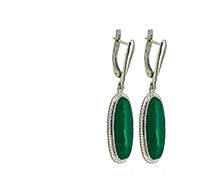
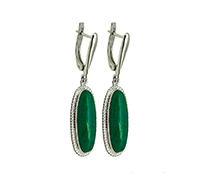
mobile menu images-center

Changed region(s): [[0.33, 0.1105, 0.84, 0.9116]]

diff --git a/sass/main.scss b/sass/main.scss
@@ -181,11 +181,19 @@ $Museo-Sans-Cyrl: "Museo Sans Cyrl";
   border: 0;
 }
 
-
 .dropdown-item:hover {
   color: #fff;
   background-color: #232323 !important;
 }
+
+.menu-top__item--right {
+  margin-left: auto;
+  order: 2;
+}
+.menu-top_btn--no-arrow{
+  padding-right: 0;
+}
+
 //menu-top-CLASSES END//
 
 
@@ -240,6 +248,7 @@ $Museo-Sans-Cyrl: "Museo Sans Cyrl";
   font-weight: 300;
   letter-spacing: 0.14px;
   font-size: 14px;
+  display: inline!important;
 }
 
 .main-category-list {
@@ -561,17 +570,39 @@ $Museo-Sans-Cyrl: "Museo Sans Cyrl";
 
 
 
-
-.menu-top__item--right {
-  margin-left: auto;
-  order: 2;
+//---------MOBILE-MENUTOP-CLASSES---------//
+.navbar-brand {
+  color: #ffffff;
+  font-family: "Museo Sans Cyrl" !important;
+  font-size: 18px;
+  font-weight: 300;
 }
-.menu-top_btn--no-arrow{
-  padding-right: 0;
+
+.bg-black {
+  background-color: #232323;
 }
 
+.navbar-dark .navbar-nav .mmenu__link {
+  color:#fff;
+}
 
+.mmenu__link {
+  font-family: "Museo Sans Cyrl";
+  color:#fff;
+  font-weight: 500;
+  font-size: 100%;
+}
 
+.mmenu__link--head{
+  font-size: 125%;
+  font-weight: 700;
+  margin-top: 10px;
+}
+
+.navbar-dark .navbar-toggler {
+  color: #fff;
+}
+//---------MOBILE-MENUTOP-CLASSES-END--------//
 
 
 

diff --git a/sass/main.css b/sass/main.css
@@ -130,6 +130,13 @@ a {
   color: #fff;
   background-color: #232323 !important; }
 
+.menu-top__item--right {
+  margin-left: auto;
+  order: 2; }
+
+.menu-top_btn--no-arrow {
+  padding-right: 0; }
+
 .main-categories {
   padding-bottom: 60px; }
   .main-categories .horizontal_stripe {
@@ -174,7 +181,8 @@ a {
   font-family: "Museo Sans Cyrl";
   font-weight: 300;
   letter-spacing: 0.14px;
-  font-size: 14px; }
+  font-size: 14px;
+  display: inline !important; }
 
 .main-category-list {
   list-style-type: none;
@@ -423,11 +431,30 @@ a {
   line-height: 24px;
   letter-spacing: 0.32px; }
 
-.menu-top__item--right {
-  margin-left: auto;
-  order: 2; }
+.navbar-brand {
+  color: #ffffff;
+  font-family: "Museo Sans Cyrl" !important;
+  font-size: 18px;
+  font-weight: 300; }
 
-.menu-top_btn--no-arrow {
-  padding-right: 0; }
+.bg-black {
+  background-color: #232323; }
+
+.navbar-dark .navbar-nav .mmenu__link {
+  color: #fff; }
+
+.mmenu__link {
+  font-family: "Museo Sans Cyrl";
+  color: #fff;
+  font-weight: 500;
+  font-size: 100%; }
+
+.mmenu__link--head {
+  font-size: 125%;
+  font-weight: 700;
+  margin-top: 10px; }
+
+.navbar-dark .navbar-toggler {
+  color: #fff; }
 
 /*# sourceMappingURL=main.css.map */

diff --git a/sass/responsive.css b/sass/responsive.css
@@ -22,9 +22,6 @@
     content: none; }
 
   .h-mail {
-    float: right; } }
-@media (max-width: 767px) and (min-width: 320px) {
-  .h-mail {
     float: none !important; }
 
   .header {
@@ -39,6 +36,19 @@
     text-align: center; }
 
   .menu-top_btn, .about-company {
-    font-size: 16px; } }
+    font-size: 16px; }
+
+  .main-categories .main-category h3 {
+    white-space: normal;
+    line-height: 1.3; }
+
+  .main-category-list li {
+    line-height: 1.5; }
+
+  .main-category-list li a {
+    white-space: normal; } }
+@media (max-width: 321px) {
+  .main-category_dscr {
+    display: none !important; } }
 
 /*# sourceMappingURL=responsive.css.map */

diff --git a/sass/responsive.scss b/sass/responsive.scss
@@ -33,15 +33,6 @@
   }
 
   .h-mail {
-    float: right;
-  }
-
-}
-
-
-@media (max-width:767px) and (min-width:320px){
-
-  .h-mail {
     float: none !important;
   }
   .header {
@@ -60,4 +51,22 @@
     font-size: 16px;
   }
 
+  .main-categories .main-category h3{
+    white-space: normal;
+    line-height: 1.3;
+  }
+  .main-category-list li{
+    line-height: 1.5;
+  }
+
+  .main-category-list li a {
+    white-space: normal;
+  }
+
+}
+
+@media (max-width:321px) {
+  .main-category_dscr {
+    display: none !important;
+  }
 }

diff --git a/html/main.php b/html/main.php
@@ -18,7 +18,7 @@
                     <div class="row">
                         <div class="col-md-6 col-6">
                             <h3>Комплекты
-                                <span class="main-category_dscr d-none d-sm-block">
+                                <span class="main-category_dscr">
                                     (серьги-кольца)
                                 </span>
                             </h3>
@@ -28,8 +28,8 @@
                                 <li><a href="#">Изумруды</a></li>
                             </ul>
                         </div>
-                        <div class="col-md-6 col-6">
-                            <img class="img-fluid" src="/images/21.png" alt="">
+                        <div class="col-md-6 d-flex justify-content-center">
+                            <img class="img-fluid" src="/images/21.jpg" alt="">
                         </div>
                     </div>
                 </div>
@@ -45,7 +45,7 @@
                                 <li><a href="#">Изумруды</a></li>
                             </ul>
                         </div>
-                        <div class="col-md-6">
+                        <div class="col-md-6 d-flex justify-content-center">
                             <img src="/images/green_diamond.jpg" alt="" class="img-fluid">
                         </div>
                     </div>
@@ -64,7 +64,7 @@
                                 <li><a href="#">Изумруды</a></li>
                             </ul>
                         </div>
-                        <div class="col-md-6">
+                        <div class="col-md-6 d-flex justify-content-center">
                             <img src="/images/cepochka.jpg" alt="" class="img-fluid">
                         </div>
                     </div>
@@ -81,7 +81,7 @@
                                 <li><a href="#">Изумруды</a></li>
                             </ul>
                         </div>
-                        <div class="col-md-6">
+                        <div class="col-md-6 d-flex justify-content-center">
                             <img src="/images/children.jpg" alt="" class="img-fluid">
                         </div>
                     </div>
@@ -107,7 +107,7 @@
                 <div class="main-category">
                     <div class="row">
                         <div class="col-md-6">
-                            <h3>Комплекты <span class="main-category_dscr d-none d-sm-block">(серьги-кольца)</span></h3>
+                            <h3>Комплекты <span class="main-category_dscr ">(серьги-кольца)</span></h3>
 
                             <ul class="main-category-list">
                                 <li><a href="#">Рубины</a></li>
@@ -116,7 +116,7 @@
                                 <li><a href="#">Полудрагоценные камни и янтарь</a></li>
                             </ul>
                         </div>
-                        <div class="col-md-6">
+                        <div class="col-md-6 d-flex justify-content-center">
                             <img class="img-fluid" src="/images/red-stones.jpg" alt="">
                         </div>
                     </div>
@@ -169,7 +169,7 @@
                                 <li><a href="#">Изумруды</a></li>
                             </ul>
                         </div>
-                        <div class="col-md-6">
+                        <div class="col-md-6 d-flex justify-content-center">
                             <img src="/images/green-earrings.jpg" alt="" class="img-fluid">
                         </div>
                     </div>

diff --git a/html/partials/menu_top.php b/html/partials/menu_top.php
@@ -48,11 +48,11 @@
 </div>
 
 <!--  -->
-<nav class="navbar navbar-expand-md  navbar-dark bg-dark d-sm-none" >
+<nav class="navbar navbar-expand-md  navbar-dark bg-black d-sm-none" >
     <div class="container">
 
         <!-- Button -->
-        <a class="navbar-brand" href="#">МЕНЮ</a>
+        <a class="navbar-brand" href="#">Меню</a>
         <button class="navbar-toggler navbar-toggler-right" type="button" data-toggle="collapse" data-target="#navbar2SupportedContent">
             <span class="navbar-toggler-icon"></span>
         </button>
@@ -60,22 +60,14 @@
         <!-- Elements -->
         <div class="collapse navbar-collapse text-center justify-content-end" id="navbar2SupportedContent">
             <ul class="navbar-nav">
-                <li class="nav-item">
-                    <a class="nav-link" href="#">
-                        <i class="fa d-inline fa-lg fa-bookmark-o"></i> Bookmarks</a>
-                </li>
-                <li class="nav-item">
-                    <a class="nav-link" href="#">
-                        <i class="fa d-inline fa-lg fa-envelope-o"></i> Contacts</a>
-                </li>
-                <li class="nav-item">
-                    <a class="nav-link" href="#">
-                        <i class="fa d-inline fa-lg fa-envelope-o"></i> Contacts</a>
-                </li>
-                <li class="nav-item">
-                    <a class="nav-link" href="#">
-                        <i class="fa d-inline fa-lg fa-envelope-o"></i> Contacts</a>
-                </li>
+                <li class="nav-item"><a class="mmenu__link mmenu__link--head nav-link" href="#"> Золото </a> </li>
+                <li class="nav-item"> <a class="mmenu__link nav-link" href="#">Комплекты</a></li>
+                <li class="nav-item"> <a class="mmenu__link nav-link" href="#">Комплекты</a></li>
+                <li class="nav-item"> <a class="mmenu__link nav-link" href="#">Комплекты</a></li>
+                <li class="nav-item"><a class="mmenu__link mmenu__link--head nav-link" href="#">Серебро</a></li>
+                <li class="nav-item"><a class="mmenu__link nav-link" href="#">Contacts</a></li>
+                <li class="nav-item"><a class="mmenu__link nav-link" href="#">Contacts</a></li>
+                <li class="nav-item"><a class="mmenu__link nav-link" href="#">Contacts</a></li>
             </ul>
         </div>
         <!-- END -->

diff --git a/html/partials/header.php b/html/partials/header.php
@@ -19,9 +19,9 @@
 <div class="container">
     <div class="row header ">
         <div class="col-md-4 col-lg-4">
-            <div class="main-logo">
+            <a href="#" class="main-logo">
                 <img src="/images/main_logo.png" alt="Логотип">
-            </div>
+            </a>
         </div>
         <div class="col-md-4 col-lg-3">
             <div class="h-address">
